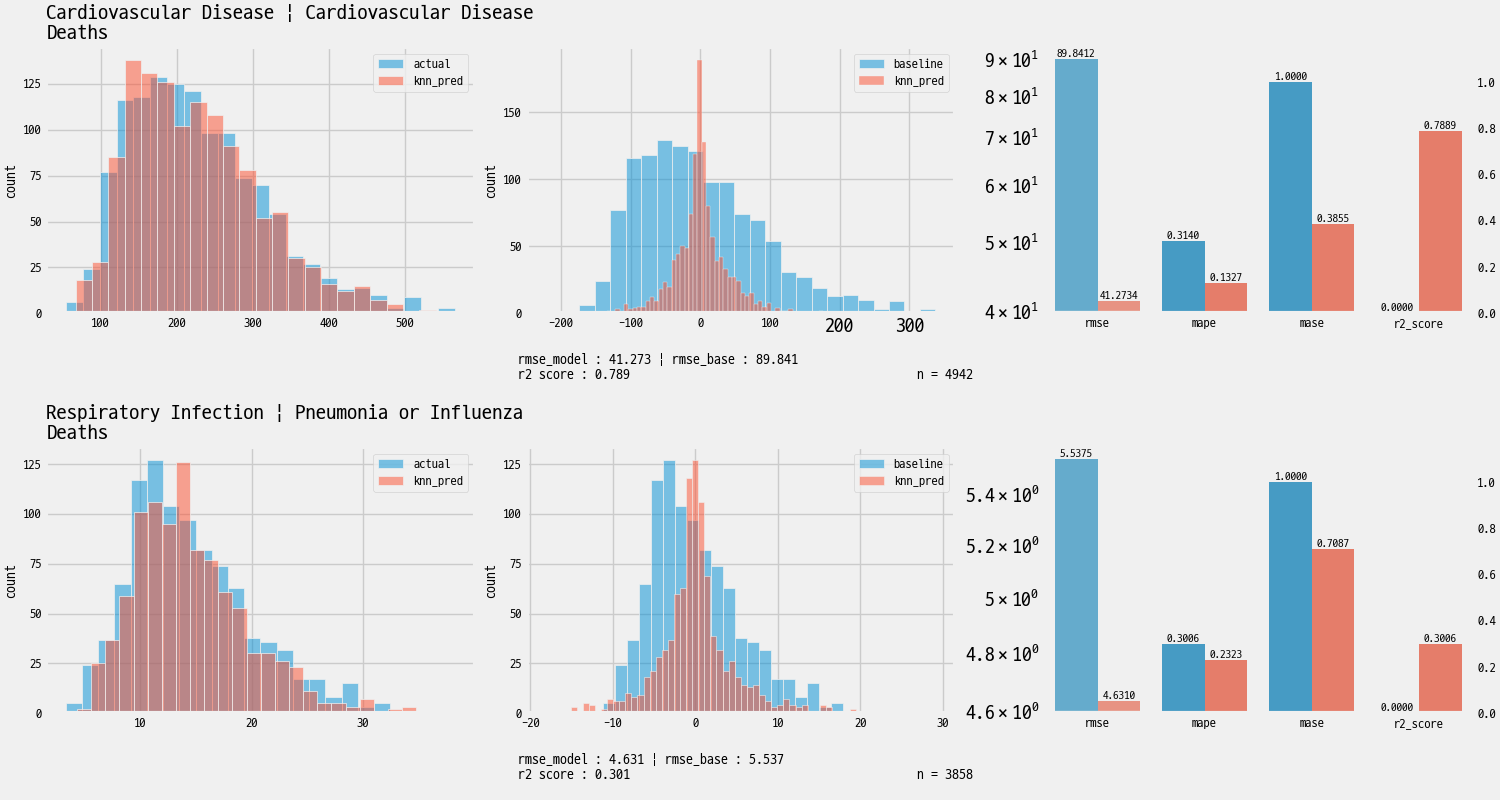
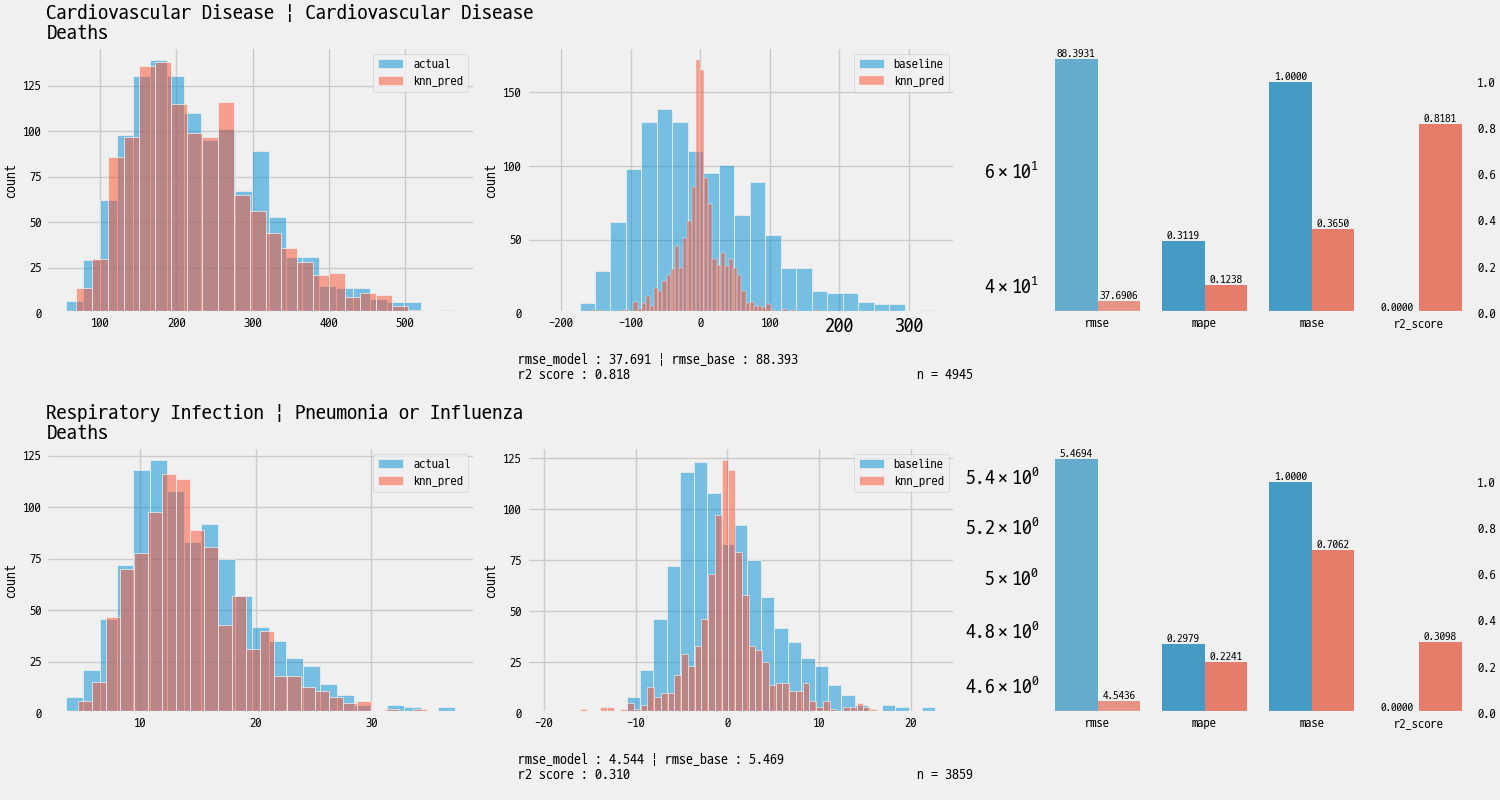
fix/change work name rule

diff --git a/preprocess_code/240626_fill_with_knn_work.py b/preprocess_code/240626_fill_with_knn_work.py
@@ -79,16 +79,16 @@ def prjct_config():
     weight1 = np.array([0.55,0.5,0.35,0.05])
     
     knn_set={
-        'metric' : 'canberra',
+        'metric' : 'custom',
         'n_neigh' : 5, 
-        'weight_norm' : weight1
+        'weight_norm' : weight0
     }
     
     col_select = 'test'
     if col_select == 'else' : target_cols = list(filter(lambda x : x not in cand_cols + test_cols,entire_label))
     if col_select == 'cand' : target_cols = cand_cols + test_cols
     if col_select == 'test' : target_cols = test_cols
-    prjct_name = '{}{}_ver2_strata-val_{}'.format(knn_set['metric'],knn_set['n_neigh'],col_select)
+    prjct_name = '{}{}_ver3_{}'.format(knn_set['metric'],knn_set['n_neigh'],col_select)
     
     return prjct_name, knn_set, work_setting, target_cols
 
@@ -107,12 +107,12 @@ def lists_append_together(lists:list,data:list):
     tuple(map(lambda x : x[0].append(x[1]),zip(lists,data)))
     return lists 
 
-def train_test_split_strat_y(X:pd.DataFrame,y:pd.Series,method='order',n_range=10,**kwargs):
+def train_test_split_strat_y(X:pd.DataFrame,y:pd.Series,method='order',n_strata=10,**kwargs):
     if method in ['quantile','order'] :
-        p_arr = np.linspace(0,n_range)/n_range
+        p_arr = np.linspace(0,n_strata)/n_strata
         cut_p = np.quantile(y,p_arr)
     elif method == 'value':
-        cut_p = np.linspace(np.min(y)-1,np.max(y),n_range)
+        cut_p = np.linspace(np.min(y)-1,np.max(y),n_strata)
     cut_p[-1] = np.max(y)+1
     train_Xs,test_Xs,train_ys,test_ys = [],[],[],[]
     data = [train_Xs,test_Xs,train_ys,test_ys]
@@ -136,13 +136,15 @@ def train_test_split_strat_y(X:pd.DataFrame,y:pd.Series,method='order',n_range=1
     
     return tuple(map(pd.concat,data))
 
-def make_data_dict(test_df, target_sample,strata='quantile'):
+def make_data_dict(test_df, target_sample,n_strata=10,strata='quantile'):
     dict_data = dict()
     for col in target_sample:
         temp = test_df[info_cols+[col]]
         cond_na = temp.isna().any(axis=1)
         X_spprt, y_spprt = temp.loc[~cond_na,info_cols], temp.loc[~cond_na,col]
-        train_X, valid_X, train_y, valid_y= train_test_split_strat_y(X_spprt, y_spprt,strata,
+        train_X, valid_X, train_y, valid_y= train_test_split_strat_y(X_spprt, y_spprt,
+                                                                     n_strata=n_strata,
+                                                                     method=strata,
                                                          test_size = 0.2,
                                                          random_state=801,
                                                          ) 
@@ -223,12 +225,13 @@ if __name__ == '__main__':
     # knn regression for each work
     for work_idx in tqdm(range(start_idx,n_work,step)):
         target_sample = target_cols[work_idx::n_work]
-        work_name = '{}_{}_{}'.format(prjct_name,work_idx,n_work) 
+        work_name = '{}_{}_{}'.format(prjct_name,n_work,work_idx) 
         print(f'work : {work_name}')
 
         test_df = pvtb_encoded[info_cols+target_cols]
-        dict_data = make_data_dict(test_df,target_sample,strata='value')
-        model = KNeighborsRegressor(n_neighbors=n_neigh,weights='distance',metric=metric,algorithm='auto')
+        dict_data = make_data_dict(test_df,target_sample,n_strata = 5, strata='value')
+        weight_func = lambda x : np.exp2(-(np.power(10*x,2)))/(np.power(x,3)+0.00000001)
+        model = KNeighborsRegressor(n_neighbors=n_neigh,weights=weight_func,metric=metric,algorithm='auto')
 
         dict_rslt = dict()
         for col in target_sample:
